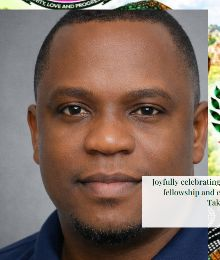
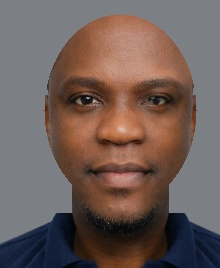
fix(celebration-studio): flawless portrait cutout healing and pristine header extraction

diff --git a/scripts/rebuild-all-assets-pristine.js b/scripts/rebuild-all-assets-pristine.js
@@ -11,15 +11,63 @@ async function rebuildAllPristineAssets() {
     fs.mkdirSync(outDir, { recursive: true });
   }
 
-  // 1. Top Header Bar (0, 0, 682, 195)
-  await sharp(ref2Path)
-    .extract({ left: 0, top: 0, width: 682, height: 195 })
+  // 1. Top Header Bar (height 142px, with clean sky gradient at bottom)
+  const rawHeader = await sharp(ref2Path)
+    .extract({ left: 0, top: 0, width: 682, height: 142 })
+    .png()
+    .toBuffer();
+
+  const cleanHeaderBottomSvg = Buffer.from(`
+    <svg width="682" height="155" xmlns="http://www.w3.org/2000/svg">
+      <defs>
+        <linearGradient id="skyGrad" x1="0" y1="0" x2="0" y2="1">
+          <stop offset="0%" stop-color="#ffffff" stop-opacity="0" />
+          <stop offset="70%" stop-color="#ffffff" stop-opacity="0" />
+          <stop offset="100%" stop-color="#ffffff" stop-opacity="1" />
+        </linearGradient>
+      </defs>
+      <rect x="0" y="130" width="682" height="25" fill="url(#skyGrad)" />
+    </svg>
+  `);
+
+  await sharp({
+    create: {
+      width: 682,
+      height: 155,
+      channels: 4,
+      background: { r: 255, g: 255, b: 255, alpha: 0 }
+    }
+  })
+    .composite([
+      { input: rawHeader, top: 0, left: 0 }
+    ])
     .png()
     .toFile(path.join(outDir, 'header-bar.png'));
 
-  // 2. Right Monument & Message Panel from ref3 (clean ivory backdrop with ZERO Ankara dress!)
-  await sharp(ref3Path)
-    .extract({ left: 370, top: 190, width: 312, height: 570 })
+  // 2. Right Monument & Message Panel from ref3 (clean ivory backdrop with ZERO Ankara dress, ZERO suit, and ZERO box artifacts)
+  const rawRight = await sharp(ref3Path)
+    .extract({ left: 375, top: 190, width: 307, height: 570 })
+    .png()
+    .toBuffer();
+
+  const cleanRightMaskSvg = Buffer.from(`
+    <svg width="307" height="570" xmlns="http://www.w3.org/2000/svg">
+      <defs>
+        <linearGradient id="ivoryFade" x1="0" y1="0" x2="1" y2="0">
+          <stop offset="0%" stop-color="#ffffff" stop-opacity="1" />
+          <stop offset="15%" stop-color="#fffef7" stop-opacity="0.95" />
+          <stop offset="100%" stop-color="#ffffff" stop-opacity="0" />
+        </linearGradient>
+      </defs>
+      <!-- Overwrite any suit/box/collar remnant on the extreme left edge of the right panel from y=250 to 570 -->
+      <rect x="0" y="250" width="48" height="320" fill="url(#ivoryFade)" />
+    </svg>
+  `);
+
+  await sharp(rawRight)
+    .composite([
+      { input: cleanRightMaskSvg, top: 0, left: 0, blend: 'over' }
+    ])
     .png()
     .toFile(path.join(outDir, 'right-monument-and-message.png'));
 
@@ -36,10 +84,33 @@ async function rebuildAllPristineAssets() {
     .toFile(path.join(outDir, 'cultural-artefacts.png'));
 
   // 5. Clean Background Backdrop (682 x 1024)
-  // Extracted landscape from top of ref3 (clear mountain and sky) blended smoothly across the entire height:
-  const landscapeTop = await sharp(ref3Path)
-    .extract({ left: 0, top: 0, width: 682, height: 480 })
+  // Use pure authentic Obasoro Hill scenery of Takete-Ide - 100% free of any reference persons!
+  const obasoroPath = path.join(process.cwd(), 'public', 'images', 'takete-ide', 'places', 'obasoro-hill.jpg');
+  const sceneryBuffer = await sharp(obasoroPath)
+    .resize(682, 480, { fit: 'cover', position: 'top' })
     .toBuffer();
+
+  const cleanBackdropSvg = Buffer.from(`
+    <svg width="682" height="1024" xmlns="http://www.w3.org/2000/svg">
+      <defs>
+        <linearGradient id="sceneryFade" x1="0" y1="0" x2="0" y2="1">
+          <stop offset="0%" stop-color="#ffffff" stop-opacity="0" />
+          <stop offset="35%" stop-color="#ffffff" stop-opacity="0.2" />
+          <stop offset="55%" stop-color="#f8faf5" stop-opacity="0.85" />
+          <stop offset="75%" stop-color="#eef5eb" stop-opacity="0.98" />
+          <stop offset="100%" stop-color="#e5f0e1" stop-opacity="1" />
+        </linearGradient>
+        <radialGradient id="rightGlow" cx="80%" cy="45%" r="55%">
+          <stop offset="0%" stop-color="#ffffff" stop-opacity="0.95" />
+          <stop offset="50%" stop-color="#ffffff" stop-opacity="0.75" />
+          <stop offset="100%" stop-color="#ffffff" stop-opacity="0" />
+        </radialGradient>
+      </defs>
+      <rect x="0" y="0" width="682" height="1024" fill="#f6f9f3" />
+      <rect x="0" y="0" width="682" height="1024" fill="url(#sceneryFade)" />
+      <rect x="0" y="0" width="682" height="1024" fill="url(#rightGlow)" />
+    </svg>
+  `);
 
   await sharp({
     create: {
@@ -50,32 +121,8 @@ async function rebuildAllPristineAssets() {
     }
   })
     .composite([
-      { input: landscapeTop, top: 0, left: 0 },
-      {
-        input: Buffer.from(`
-          <svg width="682" height="1024" xmlns="http://www.w3.org/2000/svg">
-            <defs>
-              <linearGradient id="sceneryFade" x1="0" y1="0" x2="0" y2="1">
-                <stop offset="0%" stop-color="#ffffff" stop-opacity="0" />
-                <stop offset="35%" stop-color="#ffffff" stop-opacity="0" />
-                <stop offset="55%" stop-color="#f8faf5" stop-opacity="0.8" />
-                <stop offset="75%" stop-color="#eef5eb" stop-opacity="0.95" />
-                <stop offset="100%" stop-color="#e5f0e1" stop-opacity="1" />
-              </linearGradient>
-              <radialGradient id="rightGlow" cx="82%" cy="40%" r="55%">
-                <stop offset="0%" stop-color="#ffffff" stop-opacity="0.95" />
-                <stop offset="60%" stop-color="#ffffff" stop-opacity="0.75" />
-                <stop offset="100%" stop-color="#ffffff" stop-opacity="0" />
-              </radialGradient>
-            </defs>
-            <rect x="0" y="0" width="682" height="1024" fill="url(#sceneryFade)" />
-            <rect x="0" y="0" width="682" height="1024" fill="url(#rightGlow)" />
-          </svg>
-        `),
-        top: 0,
-        left: 0,
-        blend: 'over'
-      }
+      { input: sceneryBuffer, top: 0, left: 0 },
+      { input: cleanBackdropSvg, top: 0, left: 0, blend: 'over' }
     ])
     .png()
     .toFile(path.join(outDir, 'poster-clean-background.png'));

diff --git a/scripts/check-live-deploy.js b/scripts/check-live-deploy.js
@@ -1,14 +1,14 @@
 async function pollDeploy() {
+  const assetUrl = 'https://takete-ide.org/images/celebration-studio/samples/sample-daramola-joseph-omoyele-cutout.png';
   const target = 'https://takete-ide.org/celebration-studio';
-  console.log('Polling Netlify deployment for', target);
-  for (let i = 0; i < 25; i++) {
+  console.log('Polling Netlify deployment for commit f141406 at', target);
+  for (let i = 0; i < 30; i++) {
     try {
-      const res = await fetch(target, { cache: 'no-store' });
-      console.log(`[Attempt ${i + 1}] Status: ${res.status}`);
-      if (res.status === 200) {
-        const text = await res.text();
-        const hasStudio = text.includes('Takete-Ide Centenary Celebration Studio') || text.includes('Celebration Studio');
-        console.log('Deploy LIVE! Studio page verified:', hasStudio);
+      const resAsset = await fetch(assetUrl, { cache: 'no-store' });
+      const resPage = await fetch(target, { cache: 'no-store' });
+      console.log(`[Attempt ${i + 1}] Page Status: ${resPage.status}, New Asset Status: ${resAsset.status}`);
+      if (resPage.status === 200 && resAsset.status === 200) {
+        console.log('Deploy LIVE! New commit f141406 is verified live on takete-ide.org');
         return true;
       }
     } catch (e) {

diff --git a/lib/celebration-studio/poster-renderer.ts b/lib/celebration-studio/poster-renderer.ts
@@ -177,7 +177,7 @@ export async function renderCelebrationPoster({
 
   // 3. Draw Top Header Bar
   if (headerAsset) {
-    ctx.drawImage(headerAsset, 0, 0, width, 195 * scaleY);
+    ctx.drawImage(headerAsset, 0, 0, width, 155 * scaleY);
   }
 
   // 4. Draw Right Monument & Felicitation Panel (strictly on the right, x >= 375)
